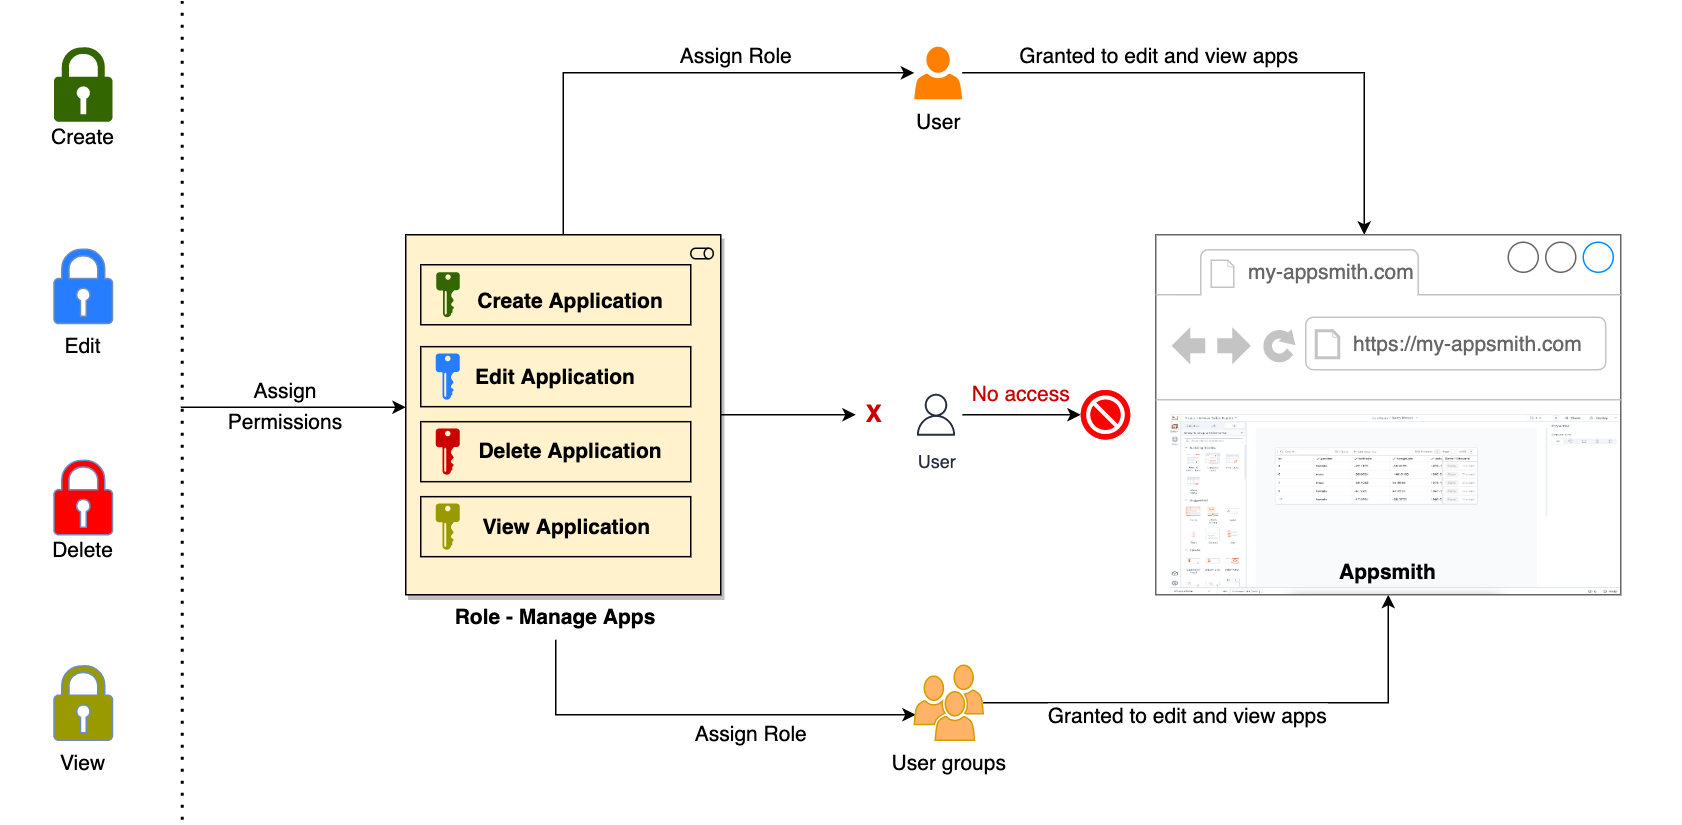
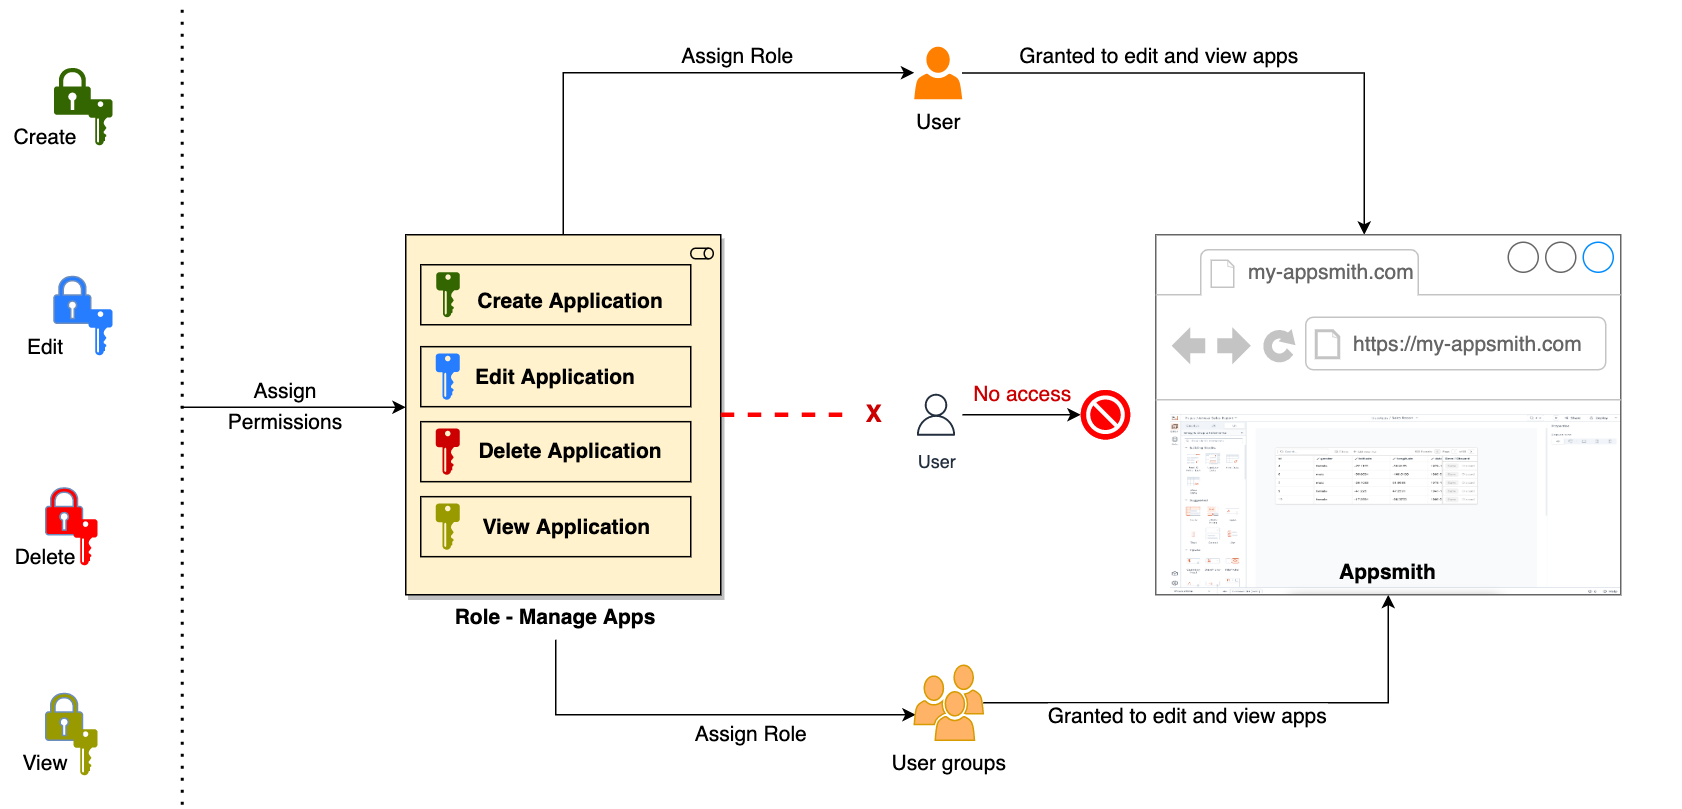
Update to image and the overview page

diff --git a/website/docs/advanced-concepts/granular-access-control/README.md b/website/docs/advanced-concepts/granular-access-control/README.md
@@ -34,11 +34,6 @@ Granular Access Control (GAC) in Appsmith allows you to specify precise access p
 * **Users** - Individual users who need access to the Appsmith instance.
 * **User Groups** - Collections of users that allow you to assign roles to multiple users simultaneously. Users in a group inherit the roles assigned to that group.
 
-## How GAC works
-
-1. **Create Roles** - Bundle permissions into custom roles for easier management.
-2. **Assign Roles** - Assign roles to individual users or user groups to grant the necessary permissions.
-
 ## Getting started
 
 To help you get started with Granular Access Control in Appsmith, here are some key areas you can explore. Click on the cards to learn more about each aspect.
